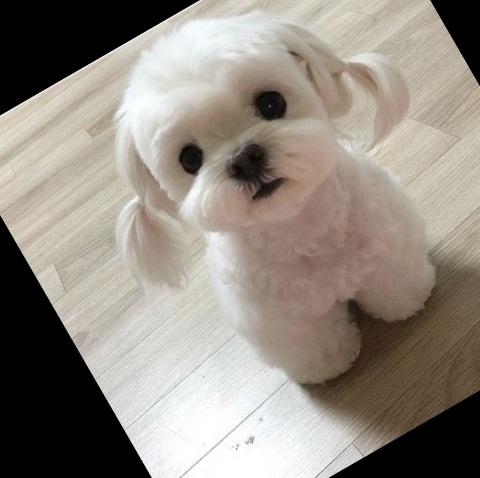
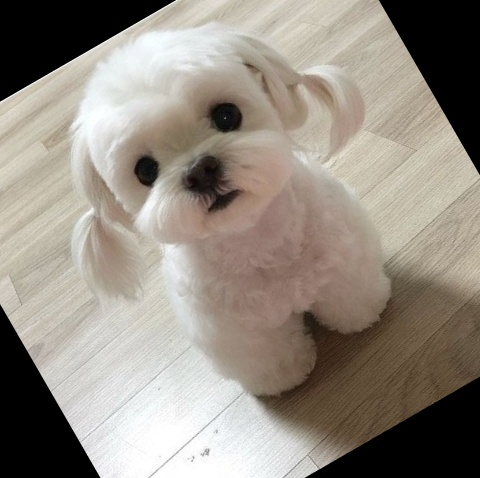
saved

diff --git a/alone01_3/templates/index.html b/alone01_3/templates/index.html
@@ -1,0 +1,28 @@
+<!doctype html>
+<html lang="ko">
+<head>
+    <meta charset="UTF-8">
+    <meta name="viewport"
+          content="width=device-width, user-scalable=no, initial-scale=1.0, maximum-scale=1.0, minimum-scale=1.0">
+    <meta http-equiv="X-UA-Compatible" content="ie=edge">
+    <title>Title</title>
+</head>
+<body>
+
+<div class="container">
+    <h1>{{pre_val}}</h1>
+    <div>
+        <form action="/">
+            길이<input type="number" name="length" id="length">
+            <br>
+            무게<input type="number" name="weight" id="weight">
+            <br>
+            <input type="submit" value="입력">
+        </form>
+    </div>
+    <div class="row">
+        <img src="{{fish_img}}">
+    </div>
+</div>
+</body>
+</html>

diff --git a/20210531/templates/index.html b/20210531/templates/index.html
@@ -5,9 +5,19 @@
     <title>Title</title>
 </head>
 <body>
-<form action="/upload" method="POST", enctype="multipart/form-data">
-    <input type="file" name="file">
-    <input type="submit" value="확인">
-</form>
+<div style="">
+    <form action="/upload" method="POST", enctype="multipart/form-data">
+        <input type="file" name="file">
+        <input type="submit" value="확인">
+    </form>
+</div>
+<br><hr><br>
+<div>
+    <form action="/addimg" method="POST", enctype="multipart/form-data">
+        <input type="file" name="file1">
+        <input type="file" name="file2">
+        <input type="submit" value="확인">
+    </form>
+</div>
 </body>
 </html>

diff --git a/20210531/templates/print.html b/20210531/templates/print.html
@@ -10,12 +10,13 @@
 <!--    <img src="{{exp}}">-->
 <!--    <img src="{{shr}}">-->
 <!--    <img src="{{mimg}}">-->
-    <img src="{{rot30}}">
+    <!--<img src="{{rot30}}">
     <img src="{{rot60}}">
     <img src="{{rot90}}">
     <img src="{{rot120}}">
     <img src="{{rot150}}">
-    <img src="{{rot180}}">
+    <img src="{{rot180}}">-->
+    <img src="{{addimg}}">
     <a href="/">메인으로</a>
 </body>
 </html>

diff --git a/20210531/main.py b/20210531/main.py
@@ -1,3 +1,5 @@
+import datetime
+
 import numpy as np
 
 from flask import Flask, render_template, request
@@ -18,6 +20,8 @@ def upload():
     filepath = f"static/{image.filename}"
     image.save(filepath)
 
+    img1 = cv2.imread(filepath)
+    height, width = img1.shape[:2]
     # # numpy로 이미지 처리
     # npimage = cv2.imread(filepath)
     # filepath2 = f"static/np{image.filename}"
@@ -42,32 +46,30 @@ def upload():
     # mimg2 = cv2.warpAffine(img2, m, (300, 300))
     # cv2.imwrite(filepath5, mimg2)
 
-    img1 = cv2.imread(filepath)
     filepath30 = f"static/rot30_{image.filename}"
     filepath60 = f"static/rot60_{image.filename}"
     filepath90 = f"static/rot90_{image.filename}"
     filepath120 = f"static/rot120_{image.filename}"
     filepath150 = f"static/rot150_{image.filename}"
     filepath180 = f"static/rot180_{image.filename}"
-    m30 = cv2.getRotationMatrix2D((240, 150), 30, 1)
-    m60 = cv2.getRotationMatrix2D((240, 150), 60, 1)
-    m90 = cv2.getRotationMatrix2D((240, 150), 90, 1)
-    m120 = cv2.getRotationMatrix2D((240, 150), 120, 1)
-    m150 = cv2.getRotationMatrix2D((240, 150), 150, 1)
-    m180 = cv2.getRotationMatrix2D((240, 150), 180, 1)
-    print(m30)
-    print(m60)
-    print(m90)
-    print(m120)
-    print(m150)
-    print(m180)
-
-    rot30 = cv2.warpAffine(img1, m30, (480, 478))
-    rot60 = cv2.warpAffine(img1, m60, (480, 478))
-    rot90 = cv2.warpAffine(img1, m90, (480, 478))
-    rot120 = cv2.warpAffine(img1, m120, (480, 478))
-    rot150 = cv2.warpAffine(img1, m150, (480, 478))
-    rot180 = cv2.warpAffine(img1, m180, (480, 478))
+    m30 = cv2.getRotationMatrix2D((width/2, height/2), 30, 1)
+    m60 = cv2.getRotationMatrix2D((width/2, height/2), 60, 1)
+    m90 = cv2.getRotationMatrix2D((width/2, height/2), 90, 1)
+    m120 = cv2.getRotationMatrix2D((width/2, height/2), 120, 1)
+    m150 = cv2.getRotationMatrix2D((width/2, height/2), 150, 1)
+    m180 = cv2.getRotationMatrix2D((width/2, height/2), 180, 1)
+    # print(m30)
+    # print(m60)
+    # print(m90)
+    # print(m120)
+    # print(m150)
+    # print(m180)
+    rot30 = cv2.warpAffine(img1, m30, (width, height))
+    rot60 = cv2.warpAffine(img1, m60, (width, height))
+    rot90 = cv2.warpAffine(img1, m90, (width, height))
+    rot120 = cv2.warpAffine(img1, m120, (width, height))
+    rot150 = cv2.warpAffine(img1, m150, (width, height))
+    rot180 = cv2.warpAffine(img1, m180, (width, height))
     cv2.imwrite(filepath30, rot30)
     cv2.imwrite(filepath60, rot60)
     cv2.imwrite(filepath90, rot90)
@@ -89,4 +91,30 @@ def upload():
                            )
 
 
-app.run(host='127.0.0.1', port=5000)
+@app.route("/addimg", methods=['POST'])
+def add():
+    # img1 = cv2.imdecode(np.fromstring(request.files['file1'].read(), np.uint8), cv2.IMREAD_UNCHANGED)
+    # img2 = cv2.imdecode(np.fromstring(request.files['file2'].read(), np.uint8), cv2.IMREAD_UNCHANGED)
+    # height1, width1 = img1.shape[:2]
+    # height2, width2 = img2.shape[:2]
+
+    param1 = request.files['file1']
+    param2 = request.files['file2']
+    filepath1 = f"static/{param1.filename}_org1"
+    filepath2 = f"static/{param2.filename}_org2"
+    filepath3 = f"static/{param1.filename}_{param2.filename}_added"
+    param1.save(filepath1)
+    param2.save(filepath2)
+    img1 = cv2.imread(filepath1)
+    img2 = cv2.imread(filepath2)
+    height1, width1 = img1.shape[:2]
+    height2, width2 = img2.shape[:2]
+
+    addcv2 = cv2.add(img1[:100, :100], img2[:100, :100])
+    # cv2.imshow('test', addcv2)
+    cv2.imwrite(filepath3, addcv2)
+    return render_template("print.html",
+                           addimg=filepath3)
+
+
+app.run(host='127.0.0.1', port=5000, debug=True)

diff --git a/alone01_3/main.py b/alone01_3/main.py
@@ -1,0 +1,62 @@
+from flask import Flask, render_template, request
+import matplotlib.pyplot as plt
+from sklearn.neighbors import KNeighborsClassifier
+
+app = Flask(__name__)
+kn = KNeighborsClassifier()
+
+
+@app.route("/")
+def home():
+    # parameters
+    param_len = float(request.args.get("length", default=0))
+    param_wei = float(request.args.get("weight", default=0))
+
+    # 생선(도미) 데이터
+    bream_length = [25.4, 26.3, 26.5, 29.0, 29.0, 29.7, 29.7, 30.0, 30.0, 30.7, 31.0, 31.0, 31.5, 32.0, 32.0, 32.0,
+                    33.0, 33.0, 33.5, 33.5, 34.0, 34.0, 34.5, 35.0, 35.0, 35.0, 35.0, 36.0, 36.0, 37.0, 38.5, 38.5,
+                    39.5, 41.0, 41.0]
+    bream_weight = [242.0, 290.0, 340.0, 363.0, 430.0, 450.0, 500.0, 390.0, 450.0, 500.0, 475.0, 500.0, 500.0, 340.0,
+                    600.0, 600.0, 700.0, 700.0, 610.0, 650.0, 575.0, 685.0, 620.0, 680.0, 700.0, 725.0, 720.0, 714.0,
+                    850.0, 1000.0, 920.0, 955.0, 925.0, 975.0, 950.0]
+    bream_cnt = len(bream_length)
+
+    # 생선(빙어) 데이터
+    smelt_length = [9.8, 10.5, 10.6, 11.0, 11.2, 11.3, 11.8, 11.8, 12.0, 12.2, 12.4, 13.0, 14.3, 15.0]
+    smelt_weight = [6.7, 7.5, 7.0, 9.7, 9.8, 8.7, 10.0, 9.9, 9.8, 12.2, 13.4, 12.2, 19.7, 19.9]
+    smelt_cnt = len(smelt_length)
+
+    plt.xlabel('length')
+    plt.ylabel('weight')
+    plt.scatter(bream_length, bream_weight, marker='o')
+    plt.scatter(smelt_length, smelt_weight, marker='*')
+
+    # 도미, 빙어 데이터 통합?
+    length = bream_length + smelt_length
+    weight = bream_weight + smelt_weight
+
+    fish_data = [[l, w] for l, w in zip(length, weight)]
+    print(fish_data)
+    # 도미(1), 빙어(0)로 정의
+    fish_target = ([1] * bream_cnt) + ([0] * smelt_cnt)
+    print(fish_target)
+    kn.fit(fish_data, fish_target)
+    kn.score(fish_data, fish_target)
+
+    plt.scatter([param_len], [param_wei], marker='^')
+    result = kn.predict([[param_len, param_wei]])
+    if result == 1:
+        pre_val = "도미?"
+    else:
+        pre_val = "빙어?"
+
+    path = f"static/fish_img.png"
+    plt.savefig(path)
+    plt.close()
+
+    return render_template("index.html",
+                           fish_img=path,
+                           pre_val=pre_val)
+
+
+app.run(host="127.0.0.1", port=5000)
